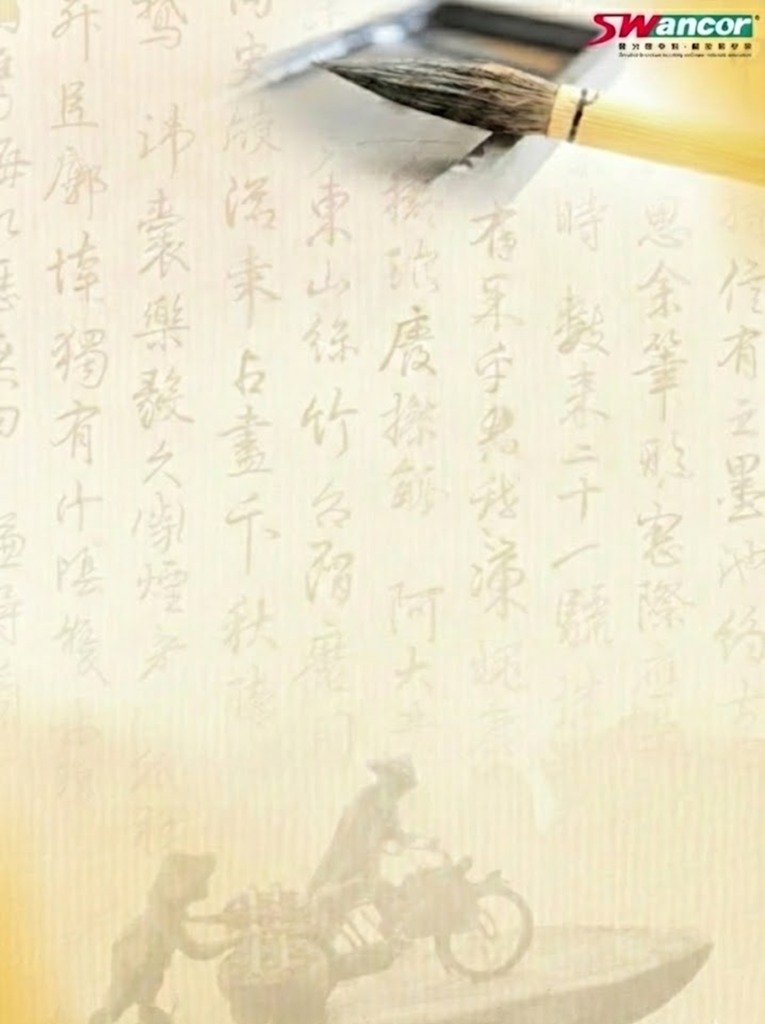
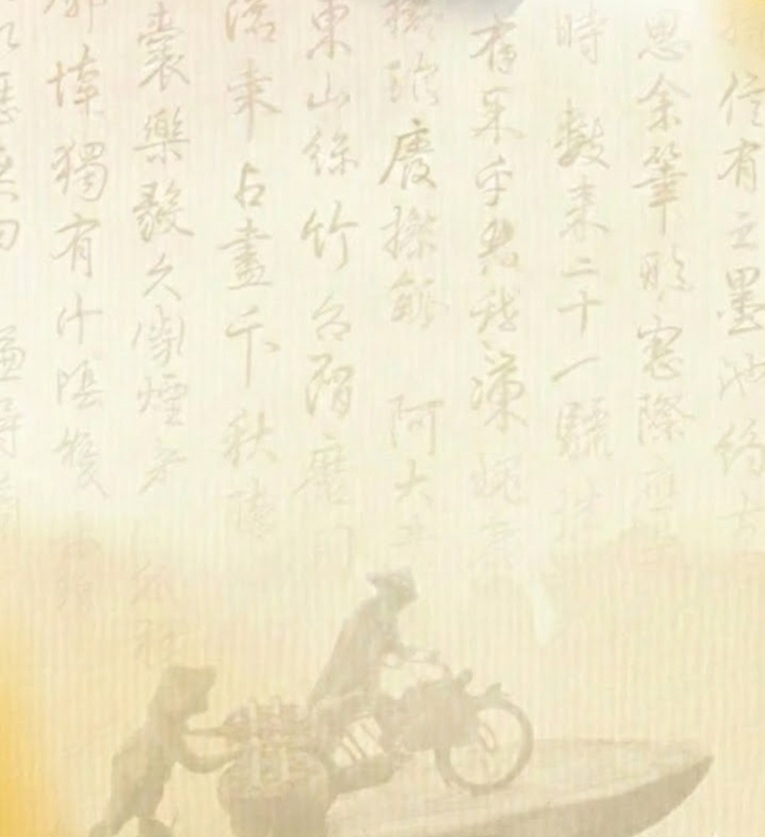
Update background image and remove hero border

diff --git a/style.css b/style.css
@@ -54,7 +54,7 @@ body {
     line-height: 1.6;
     overflow-x: hidden;
     position: relative;
-    background-image: url('new_background.jpg');
+    background-image: url('background_v2.jpg');
     background-size: cover;
     background-position: center;
     background-attachment: fixed;
@@ -217,7 +217,7 @@ body {
     padding: 80px 0 60px;
     text-align: center;
     position: relative;
-    border-bottom: 2px solid var(--border-color);
+
 }
 
 .seal-mark {
